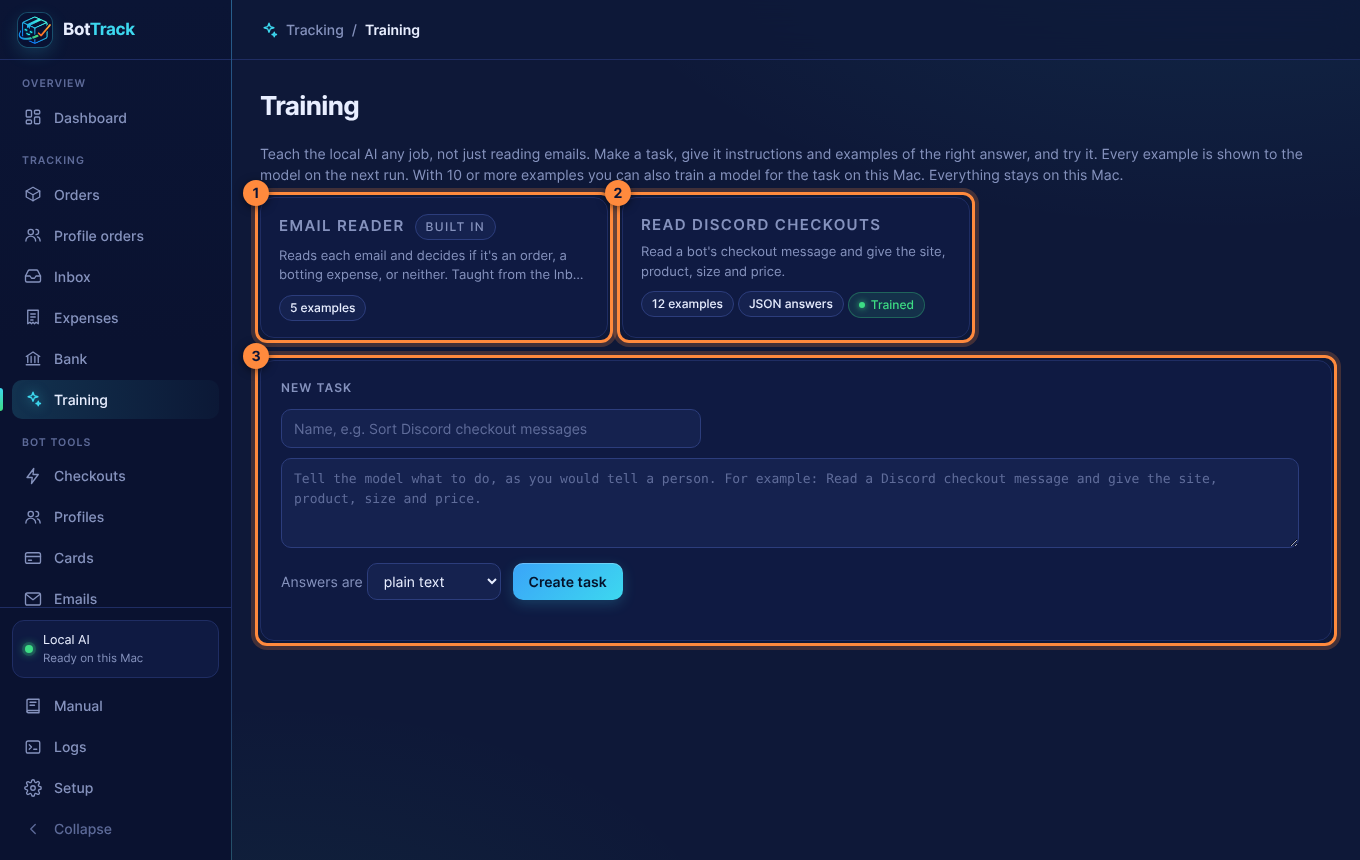
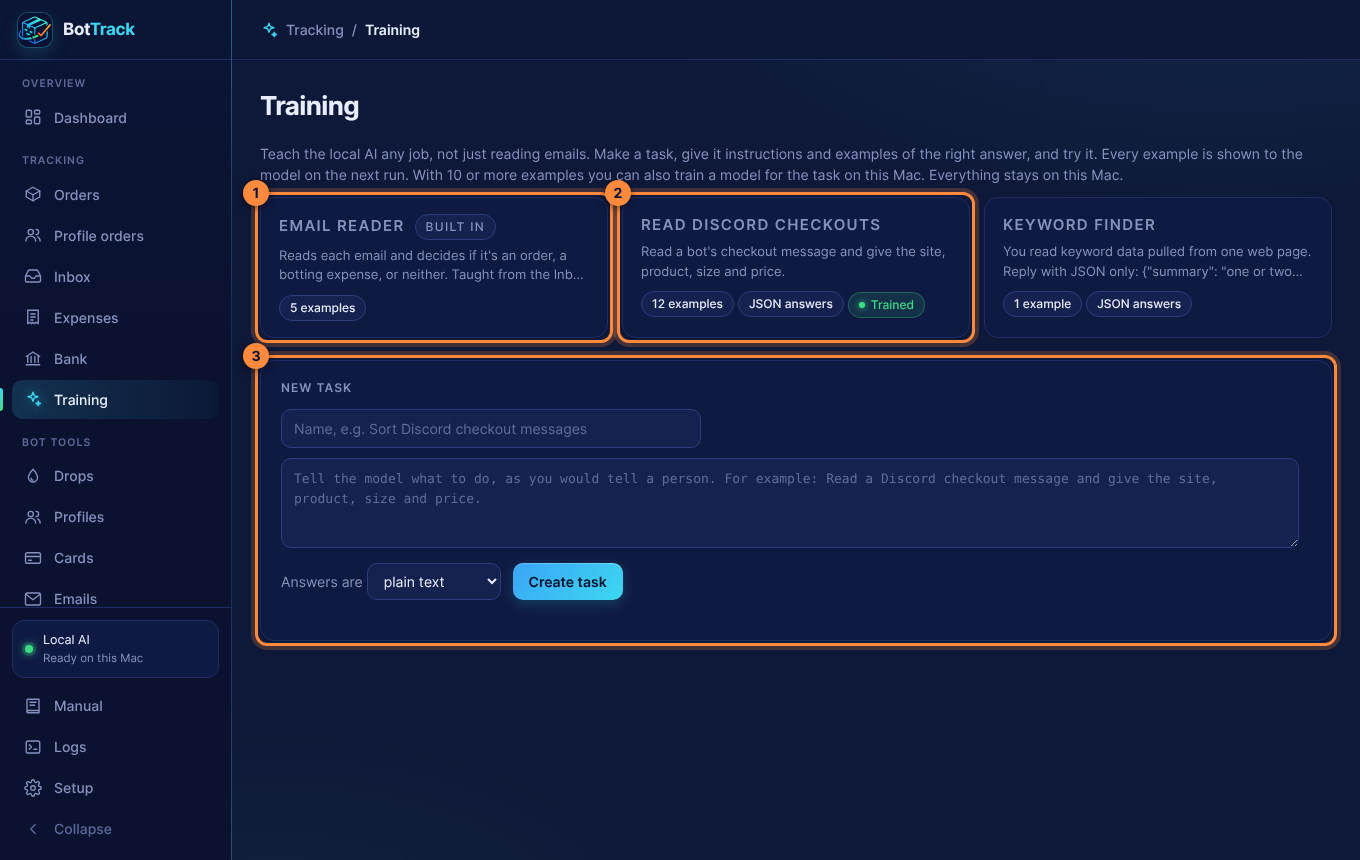
Manual: match the keyword fixes as they landed on main (#50)
Corrections teach the AI through the Keyword finder task on the Training page,
and saved rules are listed on the Keywords page as Your keyword rules with ×
to delete. New keyword-rules shot; the Training corrections shot is gone.

Claude-Session: https://claude.ai/code/session_015JMPhXTT3UTxzxB63oGw74

Changed region(s): [[0.7412, 0.2419, 0.9574, 0.3628], [0.0309, 0.5442, 0.0926, 0.5744]]

diff --git a/jigstream/templates/manual.html b/jigstream/templates/manual.html
@@ -459,8 +459,13 @@ low-top version of the same shoe. It reads only the product itself, not the menu
 <h4 id="keyword-corrections">BotTrack remembers your changes</h4>
 <p>Every keyword you remove or add is remembered for that <b>store</b> and for that <b>brand</b>. Next time you check a page from the same
 store, or the same brand on another store, your removed words stay out and your added ones go in, marked "you added this for…". The page
-you corrected is also shown to the local AI as an example, so its own suggestions get better too.</p>
-<p>You can see and undo all of it on <a href="#keyword-training">Training → Keyword finder corrections</a>.</p>
+you corrected is also saved as an example of the <b>Keyword finder</b> task on the <a href="#keyword-training">Training</a> page,
+so the local AI's own suggestions get better too.</p>
+<p>All your rules are listed under <b>Your keyword rules</b> on the Keywords page. Press <b>×</b> on one to delete it; pages from that
+store or brand go back to the normal suggestions.</p>
+{{ fig("keyword-rules", "Your keyword rules, at the top of the Keywords page before you check a page.", [
+  "Each rule: the keyword, whether you removed or added it, and the store and brand it applies to.",
+  "× deletes the rule."]) }}
 <div class="tip">BotTrack never suggests a negative for a spaced spelling of the product's own name (a site that writes "Nee Doh" as well as
 "NeeDoh"), or for the store's own name.</div>
 <p>Some stores block automated visits. When that happens BotTrack says so and doesn't try to get around it; try a different page from
@@ -665,13 +670,11 @@ downloads the model (2 to 5 GB).</div>
   "Model said: what the AI answered. Green means it was already right, red means it got it wrong.",
   "Delete an example that's wrong, so the AI doesn't learn from it.",
   "Train an email reader on these examples. Once trained, Use this switches email syncing to it (BotTrack restarts its AI). Go back to the 14B model any time."]) }}
-{% if "keywords.keywords_page" in pages %}<h4 id="keyword-training">Keyword finder corrections</h4>
-<p>At the bottom of the Email reader page is everything you changed on the <a href="#keywords">Keywords</a> page.</p>
-{{ fig("training-keywords", "Training → Email reader → Keyword finder corrections.", [
-  "Your rules: each keyword you added or removed, and the store and brand it applies to.",
-  "Delete a rule you no longer want. Pages from that store or brand go back to the normal suggestions.",
-  "Export the pages you corrected as a .jsonl file, in the same format as the email examples, for training a model later."]) }}
-<p>Under the export button is the list of pages you corrected, which the local AI sees as examples. Delete one if it was a bad example.</p>{% endif %}
+{% if "keywords.keywords_page" in pages %}<h4 id="keyword-training">The Keyword finder task</h4>
+<p>The <a href="#keywords">Keywords</a> page has its own task here, called <b>Keyword finder</b>. It appears the first time you use the local
+AI or correct a page there. Each page you corrected is one of its examples, with the keywords you settled on, and a newer correction
+of the same page replaces the older one. Open the task to read or delete examples, edit its instructions, or train it like any other
+task.</p>{% endif %}
 </section>
 
 <section id="logs" data-title="Logs">

diff --git a/tools/manual_screenshots.py b/tools/manual_screenshots.py
@@ -142,8 +142,8 @@ def seed(path):
                                "https://demo-sneakers.example/air-jordan-1-chicago", "Air Jordan 1 Retro High OG 'Chicago'")
         keywordrules.save_rule(c, "demo-sneakers.example", "jordan", "+", "og", "add",
                                "https://demo-sneakers.example/air-jordan-1-chicago", "Air Jordan 1 Retro High OG 'Chicago'")
-        keywordrules.save_example(c, "https://demo-sneakers.example/air-jordan-1-low", "demo-sneakers.example",
-                                  "Air Jordan 1 Low 'Bred'", {"name": "Air Jordan 1 Low 'Bred'"},
+        from jigstream import keywords
+        keywordrules.save_example(c, keywords.AI_SYSTEM, {"name": "Air Jordan 1 Low 'Bred'", "host": "demo-sneakers.example"},
                                   ["air", "jordan", "1", "low", "bred"], ["mid", "high", "gs", "ps", "td"])
     if has_module("bank"):  # the Bank page, once it's in the app
         from jigstream import bank
@@ -512,9 +512,8 @@ shot("keywords", "/keywords", KEYWORD_MARKS,
      js="document.querySelector('input[name=url]').value = 'https://demo-sneakers.example/air-jordan-1-chicago';"
         "document.querySelector('form.kw-form').submit()",
      viewport={"width": 1360, "height": 1950 if has_module("keywordrules") else 1250}, needs=lambda: has_module("keywords"))
-shot("training-keywords", "/training/email", [("h3#keywords + p + table", 1), ("h3#keywords + p + table button.danger", 2),
-                                             ("a[href='/keywords/training/export'] button", 3)],
-     scroll="h3@Keyword finder corrections", needs=lambda: has_module("keywordrules"))
+shot("keyword-rules", "/keywords", [("#rules table", 1), ("#rules .kw-x", 2)], clip_to="#rules",
+     needs=lambda: has_module("keywordrules"))
 shot("stock", "/stock?run=1&retailer=target&product=https%3A%2F%2Fwww.target.com%2Fp%2F-%2FA-89238122&zip=78701&radius=25",
      [("input[name=product]", 1), ("select[name=retailer]", 2), ("input[name=zip]", 3), ("select[name=radius]", 4),
       ("table.st-table", 5), ("#recheck", 6), ("form[action='/stock/bestbuy-key']", 7)],
